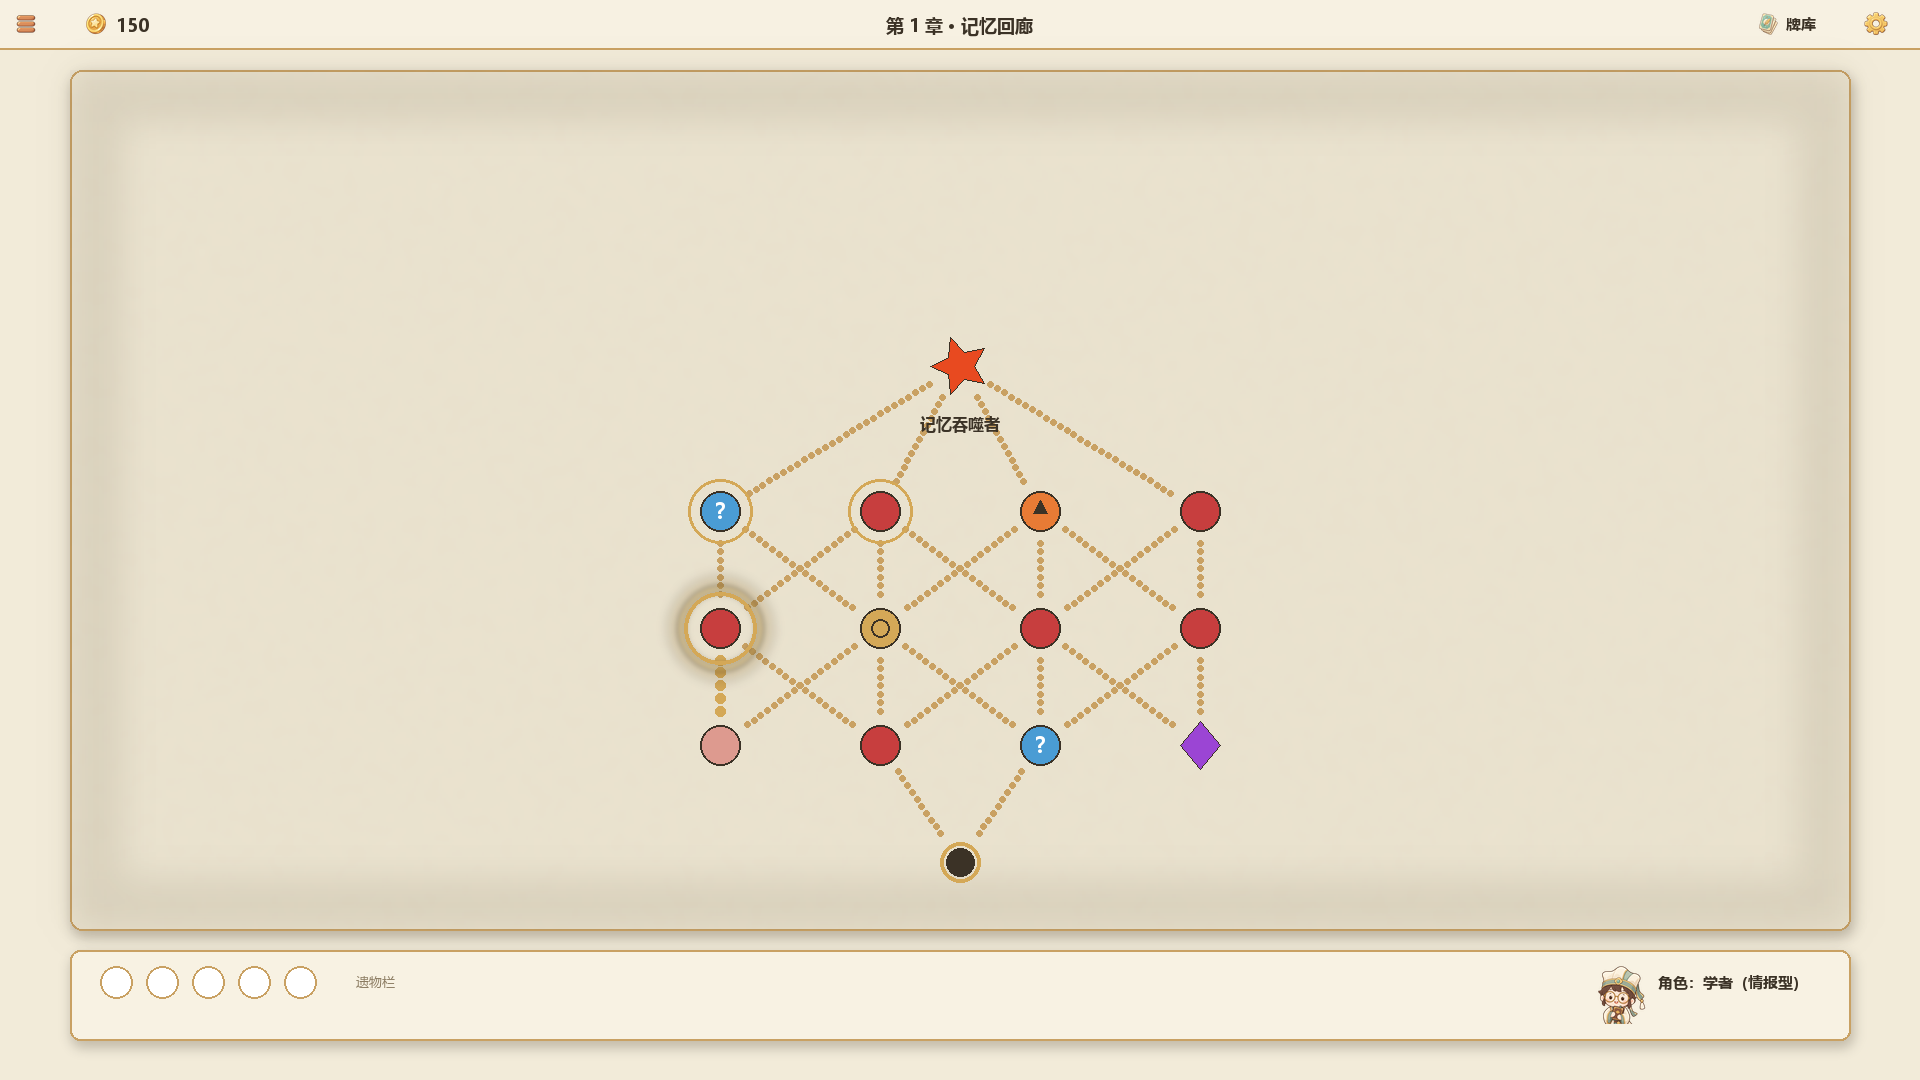
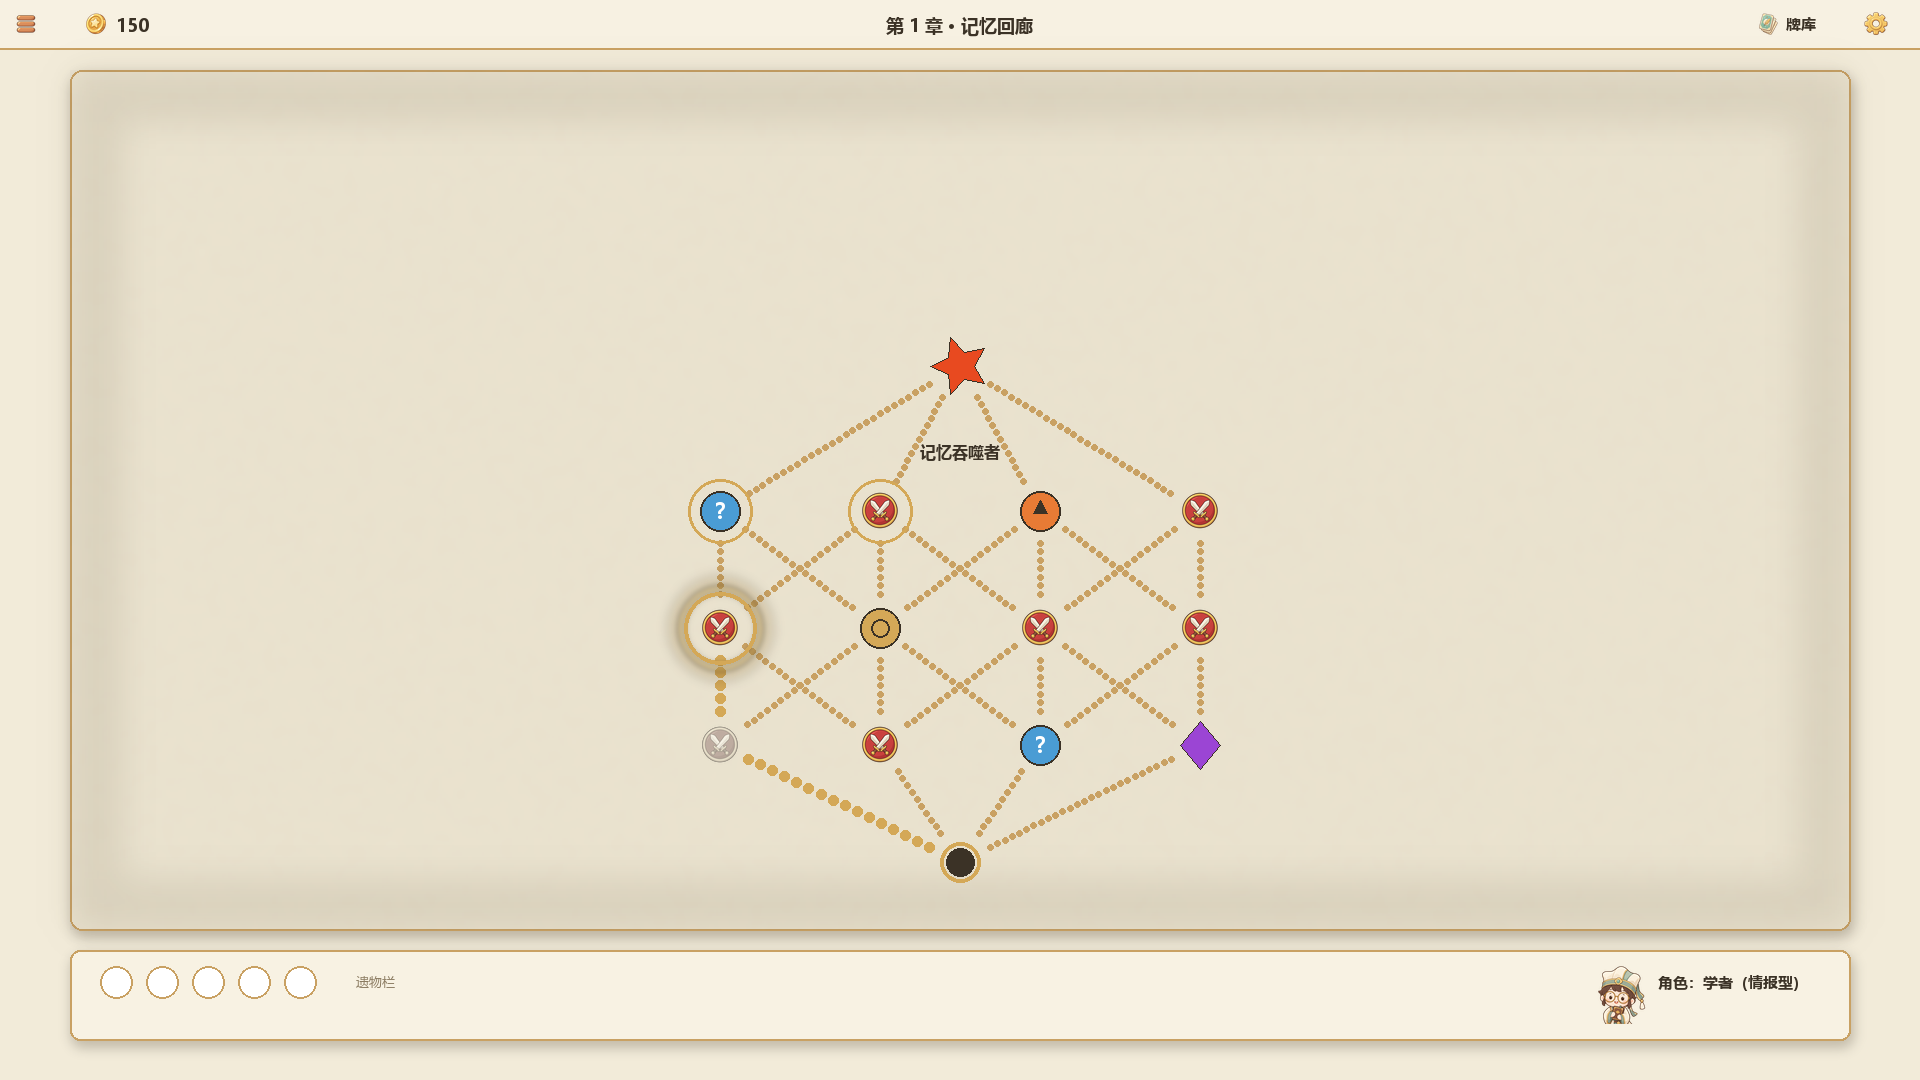
art: S04 第二轮——连接逻辑修复 + node_battle 发布 + 其余 5 类节点 A 方向候选待拍板——①s04_map 连接修病根：'相邻层 |dx|≤160 才连'对起点不豁免，致已走金点路径第一段（起点→左列）不存在于图、左侧已通过节点悬空、右列精英从起点不可达；改起点与 Boss 顶点同权扇形连满第一层（StS 惯例），Boss 名下移 y452 避让汇聚点线；顺修 map_node 褪色 veil 的 PANEL 四元组拼接笔误（RGBA+alpha 五元 TypeError，真资产首贴才触发）；重渲 vision 校验 8 项全过（金点路径成链/四扇形可达/褪色徽章

diff --git a/.agents/skills/mh-art/scripts/ui_mockup.py b/.agents/skills/mh-art/scripts/ui_mockup.py
@@ -427,7 +427,7 @@ def map_node(img, cx, cy, kind, dim=False):
     if dim:
         im = ImageEnhance.Color(im).enhance(0.2)
         im = ImageEnhance.Brightness(im).enhance(1.06)
-        veil = Image.new("RGBA", im.size, PANEL + (0,))
+        veil = Image.new("RGBA", im.size, PANEL[:3] + (0,))
         veil.putalpha(ImageChops.multiply(
             im.getchannel("A"), Image.new("L", im.size, 140)))
         im.alpha_composite(veil)
@@ -520,10 +520,11 @@ def s04_map():
 
     for ri in range(len(rows) - 1):
         top_is_boss = ri + 2 == len(rows)
+        bot_is_start = ri == 0   # 起点扇形连满第一层（StS 惯例）：保证任何已走路径与全部底层节点可达
         for ci in range(len(rows[ri][1])):
             for cj in range(len(rows[ri + 1][1])):
                 dx0, dx1 = rows[ri][1][ci][1], rows[ri + 1][1][cj][1]
-                if not top_is_boss and abs(dx0 - dx1) > 160:
+                if not (top_is_boss or bot_is_start) and abs(dx0 - dx1) > 160:
                     continue
                 chosen = (ri, ci, cj) in chosen_edges
                 dotted_edge(d, node_xy(ri, ci), node_xy(ri + 1, cj),
@@ -540,7 +541,8 @@ def s04_map():
                   outline=GOLD[:3] + (170,), width=3)
     cur_x, cur_y = node_xy(2, 0)
     current_marker(img, cur_x, cur_y)
-    text(d, (cx0, 424), "记忆吞噬者", size=16, fill=INK, anchor="mm")
+    # Boss 名下移避开汇聚点线（y≈444-460 带内两侧点线 x≈±47，标签宽 ±40 不相碰）
+    text(d, (cx0, 452), "记忆吞噬者", size=16, fill=INK, anchor="mm")
 
     # 底部状态栏
     panel(img, [70, H - 130, W - 70, H - 40], 10, fill=BRIGHT)
